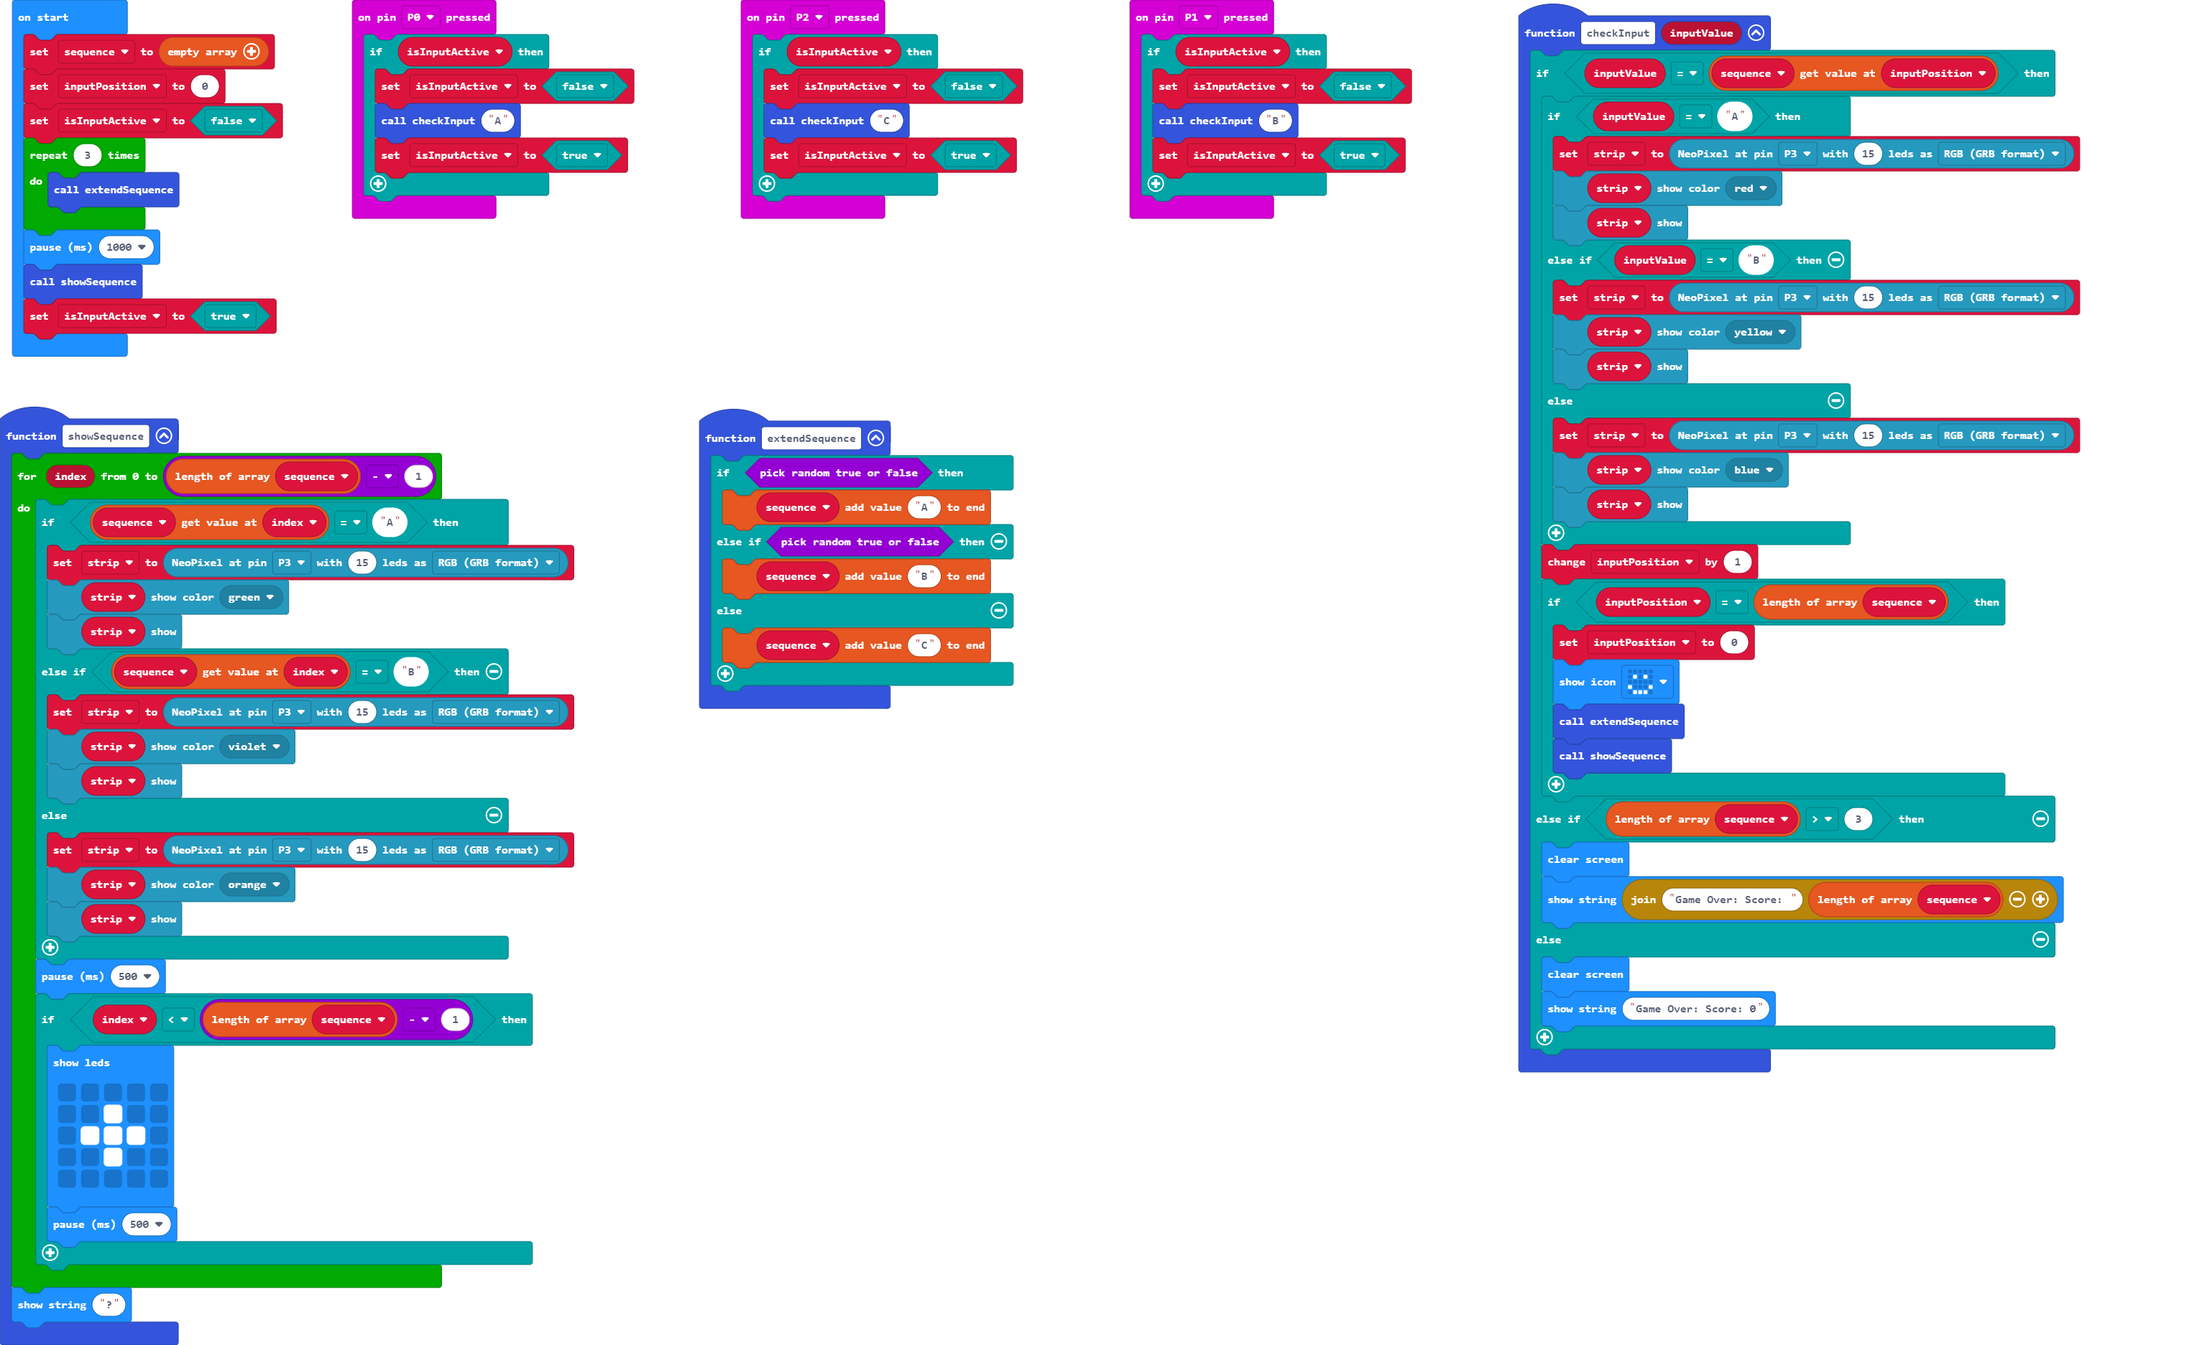
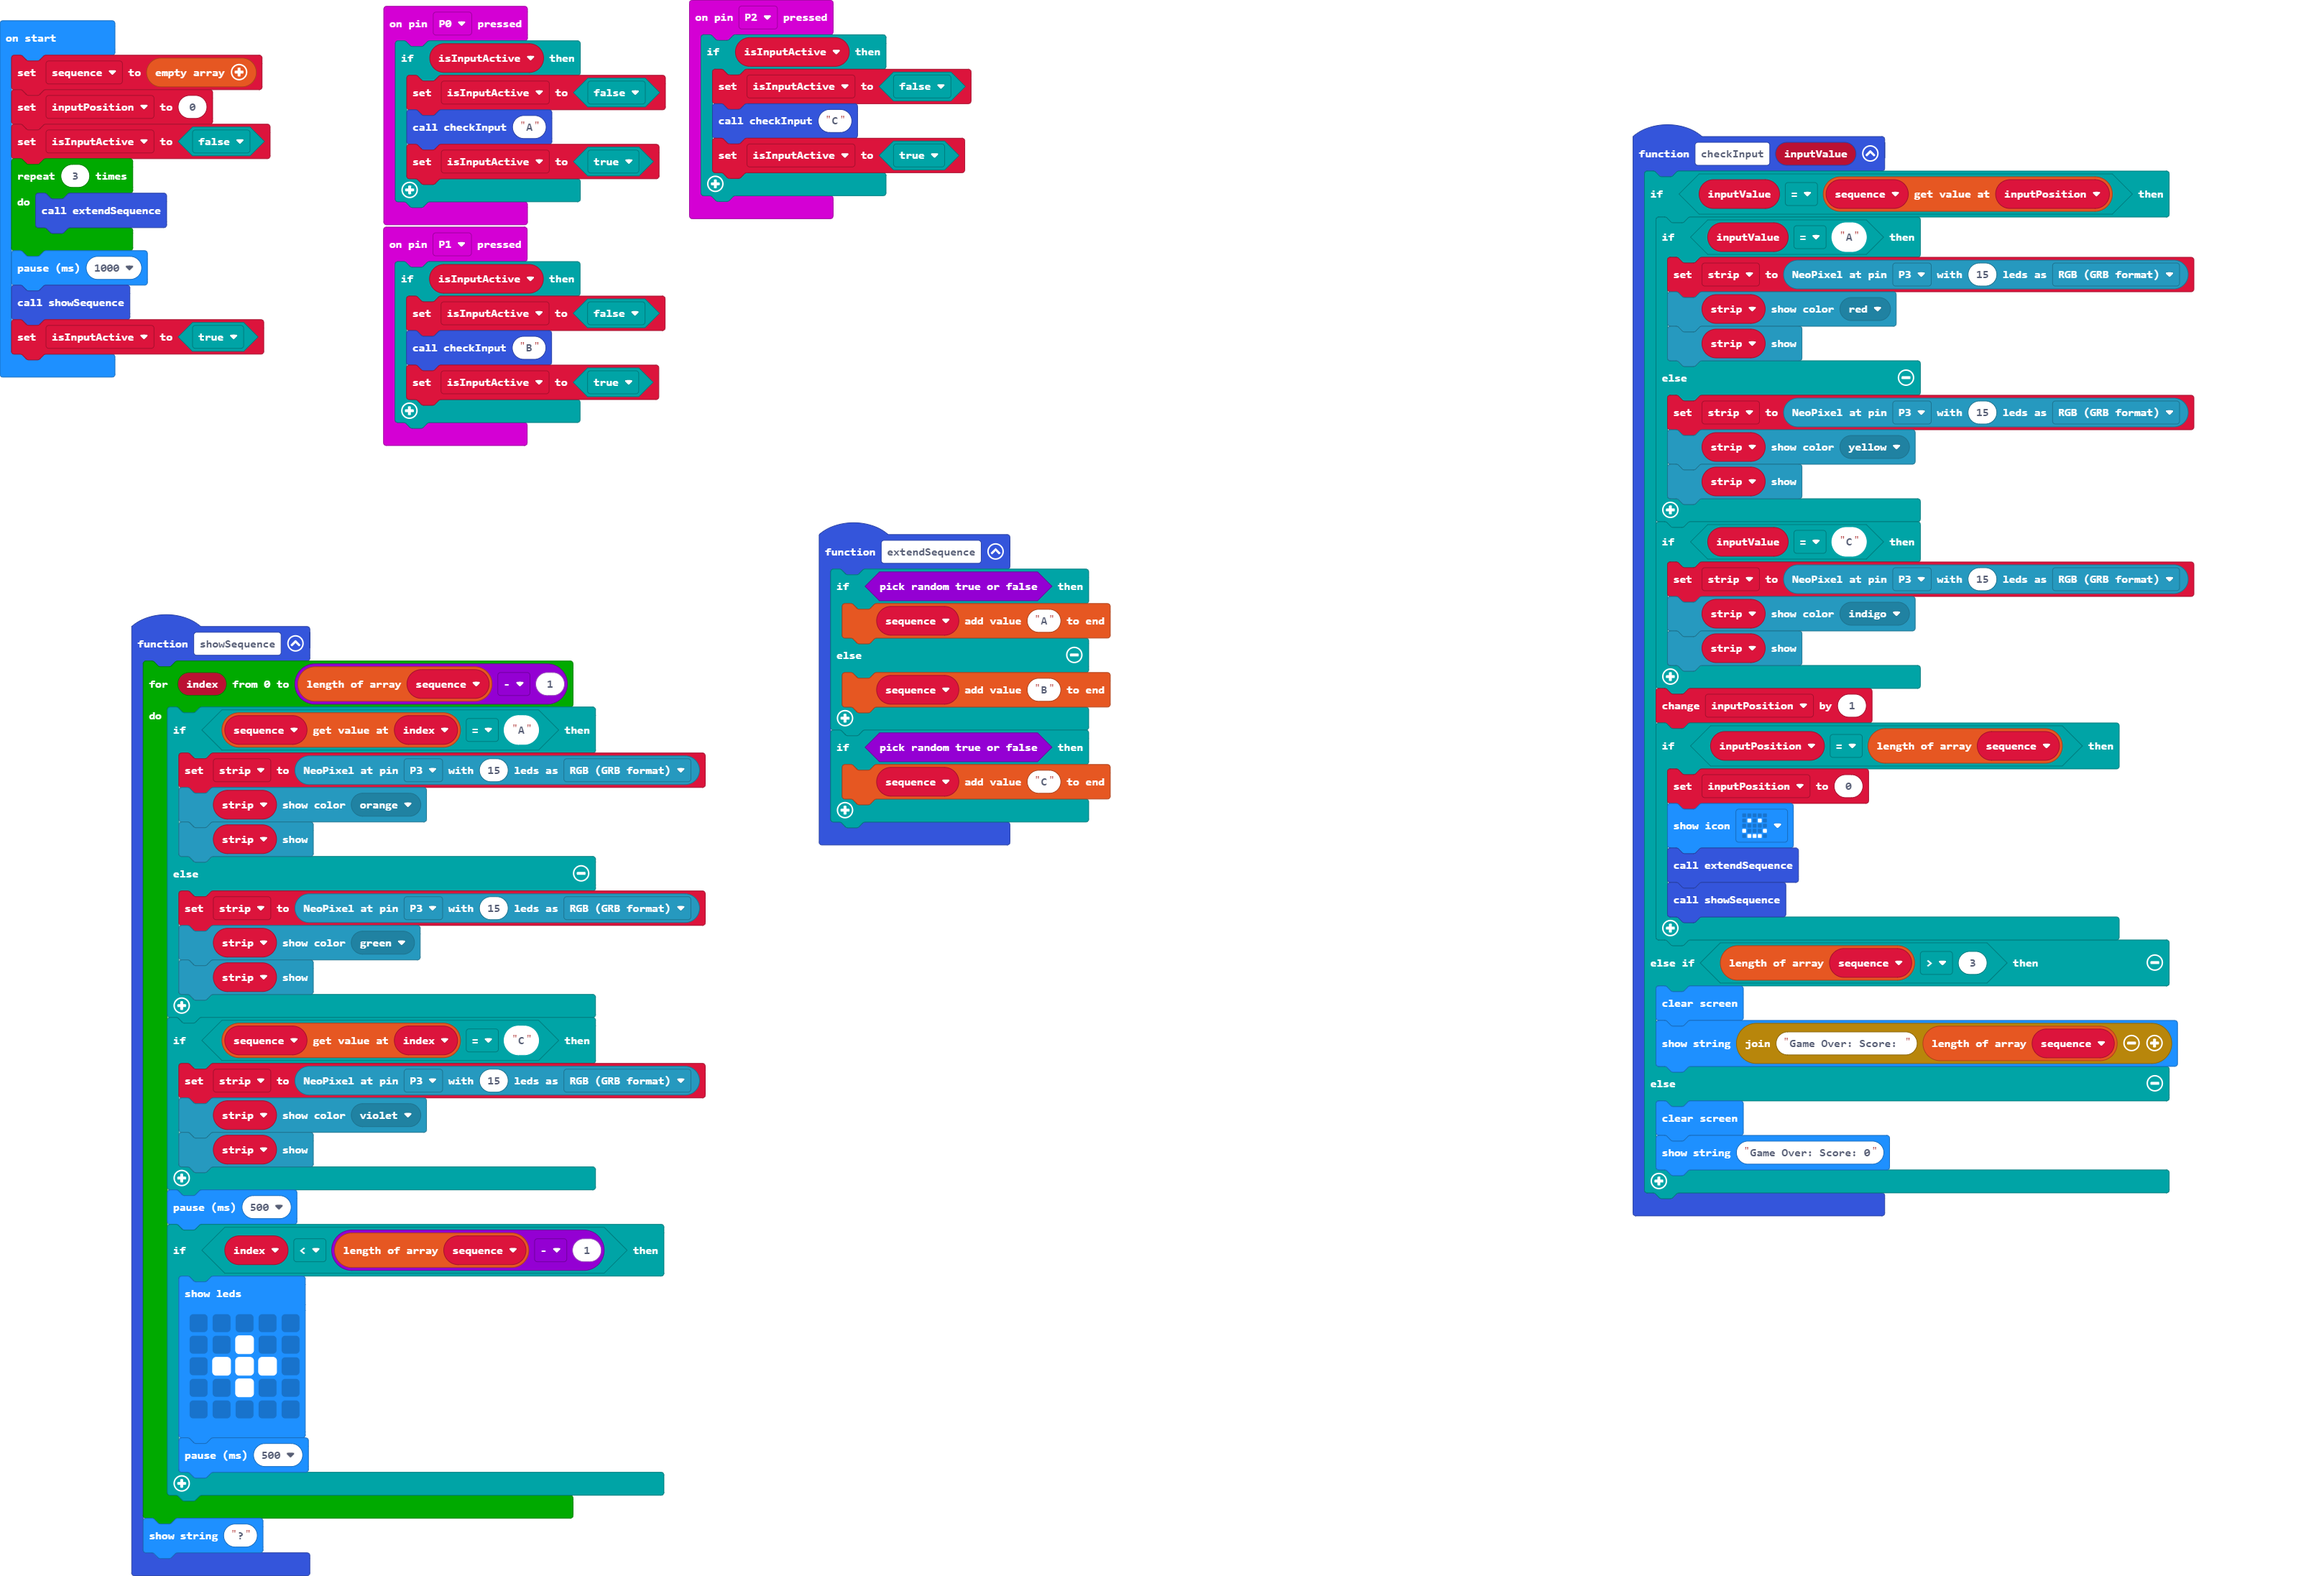
new changes for 3rd input

diff --git a/main.ts b/main.ts
@@ -4,13 +4,14 @@ function checkInput (inputValue: string) {
             strip = neopixel.create(DigitalPin.P3, 15, NeoPixelMode.RGB)
             strip.showColor(neopixel.colors(NeoPixelColors.Red))
             strip.show()
-        } else if (inputValue == "B") {
+        } else {
             strip = neopixel.create(DigitalPin.P3, 15, NeoPixelMode.RGB)
             strip.showColor(neopixel.colors(NeoPixelColors.Yellow))
             strip.show()
-        } else {
+        }
+        if (inputValue == "C") {
             strip = neopixel.create(DigitalPin.P3, 15, NeoPixelMode.RGB)
-            strip.showColor(neopixel.colors(NeoPixelColors.Blue))
+            strip.showColor(neopixel.colors(NeoPixelColors.Indigo))
             strip.show()
         }
         inputPosition += 1
@@ -39,15 +40,16 @@ function showSequence () {
     for (let index = 0; index <= sequence.length - 1; index++) {
         if (sequence[index] == "A") {
             strip = neopixel.create(DigitalPin.P3, 15, NeoPixelMode.RGB)
-            strip.showColor(neopixel.colors(NeoPixelColors.Green))
-            strip.show()
-        } else if (sequence[index] == "B") {
-            strip = neopixel.create(DigitalPin.P3, 15, NeoPixelMode.RGB)
-            strip.showColor(neopixel.colors(NeoPixelColors.Violet))
+            strip.showColor(neopixel.colors(NeoPixelColors.Orange))
             strip.show()
         } else {
             strip = neopixel.create(DigitalPin.P3, 15, NeoPixelMode.RGB)
-            strip.showColor(neopixel.colors(NeoPixelColors.Orange))
+            strip.showColor(neopixel.colors(NeoPixelColors.Green))
+            strip.show()
+        }
+        if (sequence[index] == "C") {
+            strip = neopixel.create(DigitalPin.P3, 15, NeoPixelMode.RGB)
+            strip.showColor(neopixel.colors(NeoPixelColors.Violet))
             strip.show()
         }
         basic.pause(500)
@@ -81,9 +83,10 @@ input.onPinPressed(TouchPin.P1, function () {
 function extendSequence () {
     if (Math.randomBoolean()) {
         sequence.push("A")
-    } else if (Math.randomBoolean()) {
-        sequence.push("B")
     } else {
+        sequence.push("B")
+    }
+    if (Math.randomBoolean()) {
         sequence.push("C")
     }
 }
